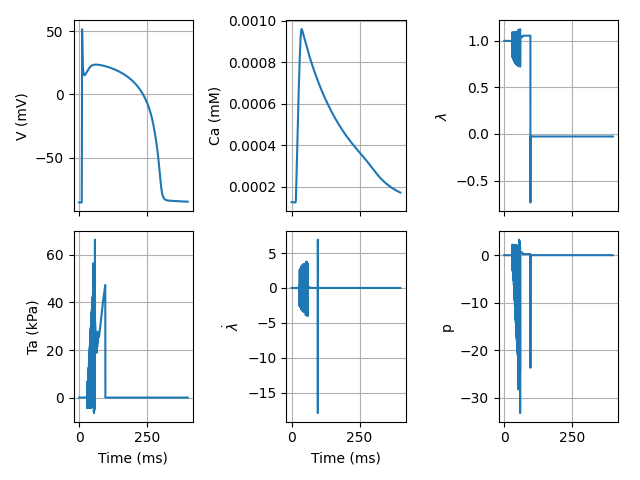
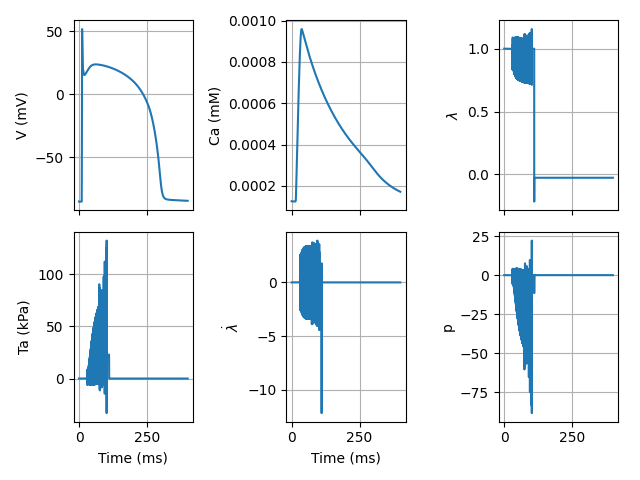
renamed P11 to L1 and P22 to L2 for clarity. Fixed expression for L2

diff --git a/demos_coupling/0D_coupling.py b/demos_coupling/0D_coupling.py
@@ -47,7 +47,7 @@ class zeroD_coupling:
     def _func(self, x, Ta):
         lmbda, p = x
         a, b, af, bf = 2.28, 9.726, 1.685, 15.779
-        P11 = (
+        L1 = (
             Ta
             + a * (lmbda**2 - 1 / lmbda) * np.exp(b * (lmbda**2 + 2 / lmbda - 3))
             + 2
@@ -57,16 +57,16 @@ class zeroD_coupling:
             * np.exp(bf * subplus(lmbda**2 - 1) ** 2)
             + p
         )
-        P22 = (
-            a * (lmbda**2 - 1 / lmbda) * np.exp(b * (lmbda**2 + 2 / lmbda - 3))
-            + 2
+        L2 = (
+            2 * a * (lmbda**2 - 1 / lmbda) * np.exp(b * (lmbda**2 + 2 / lmbda - 3))
+            + 4
             * lmbda**2
             * af
             * subplus(lmbda**2 - 1)
             * np.exp(bf * subplus(lmbda**2 - 1) ** 2)
             - p
         )
-        return np.array([P11, P22], dtype=np.float64)
+        return np.array([L1, L2], dtype=np.float64)
 
     def _step(self, i, ti):
         self.states = self.odesolver(self.states, ti, self.dt, self.params)
@@ -102,7 +102,7 @@ class zeroD_coupling:
         Ta = self.monitor_values(ti, states_new, self.params)[self.Ta_index]
 
         a, b, af, bf = 2.28, 9.726, 1.685, 15.779
-        P11 = (
+        L1 = (
             Ta
             + a * (lmbda**2 - 1 / lmbda) * np.exp(b * (lmbda**2 + 2 / lmbda - 3))
             + 2
@@ -112,16 +112,16 @@ class zeroD_coupling:
             * np.exp(bf * subplus(lmbda**2 - 1) ** 2)
             + p
         )
-        P22 = (
-            a * (lmbda**2 - 1 / lmbda) * np.exp(b * (lmbda**2 + 2 / lmbda - 3))
-            + 2
+        L2 = (
+            2 * a * (lmbda**2 - 1 / lmbda) * np.exp(b * (lmbda**2 + 2 / lmbda - 3))
+            + 4
             * lmbda**2
             * af
             * subplus(lmbda**2 - 1)
             * np.exp(bf * subplus(lmbda**2 - 1) ** 2)
             - p
         )
-        return np.array([P11, P22], dtype=np.float64)
+        return np.array([L1, L2], dtype=np.float64)
 
     def solve_monolithic(self):
         for i, ti in enumerate(self.t):
